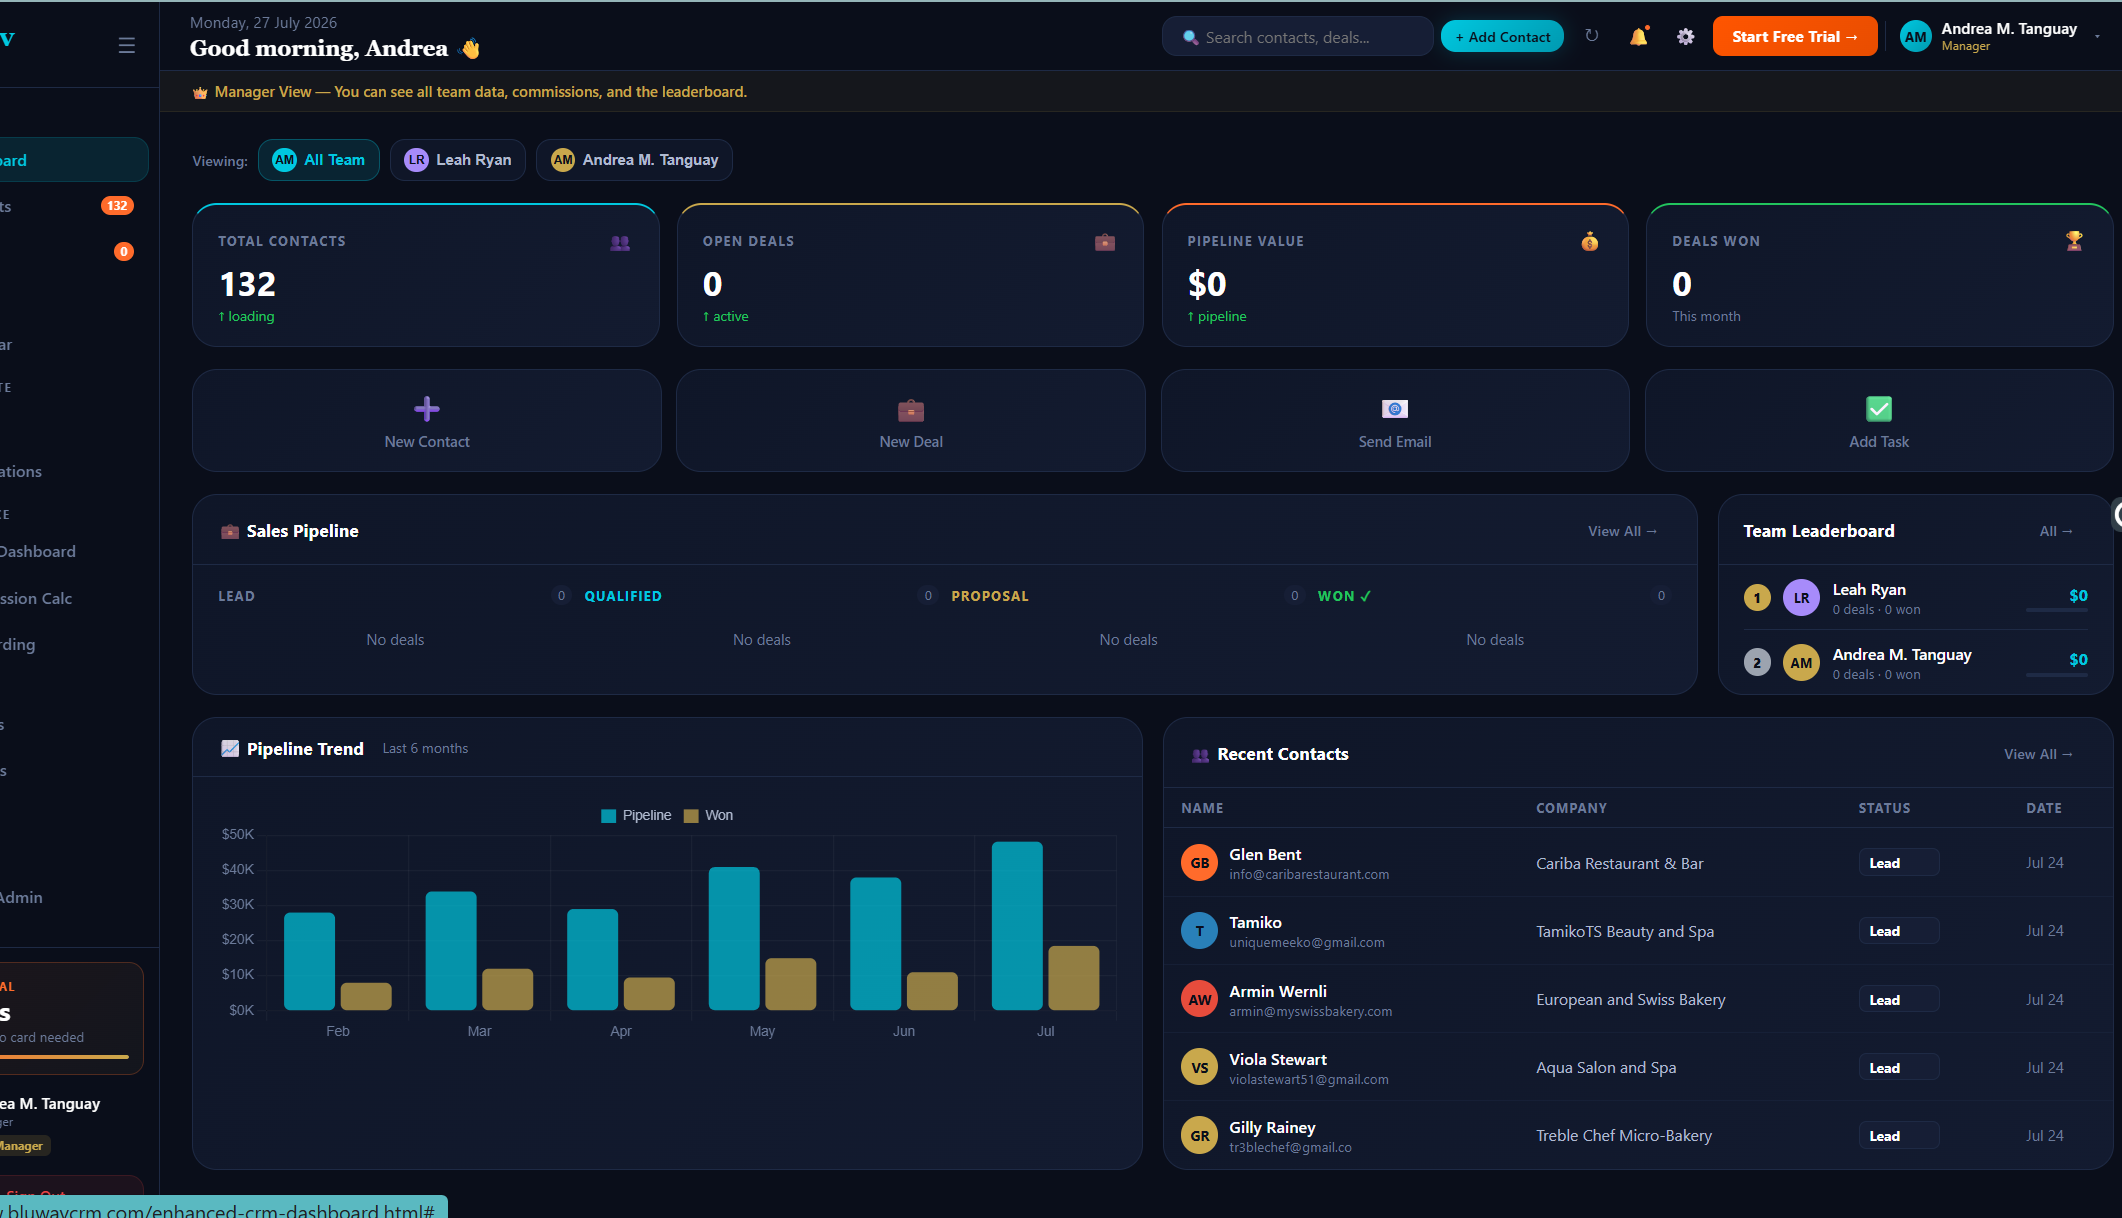
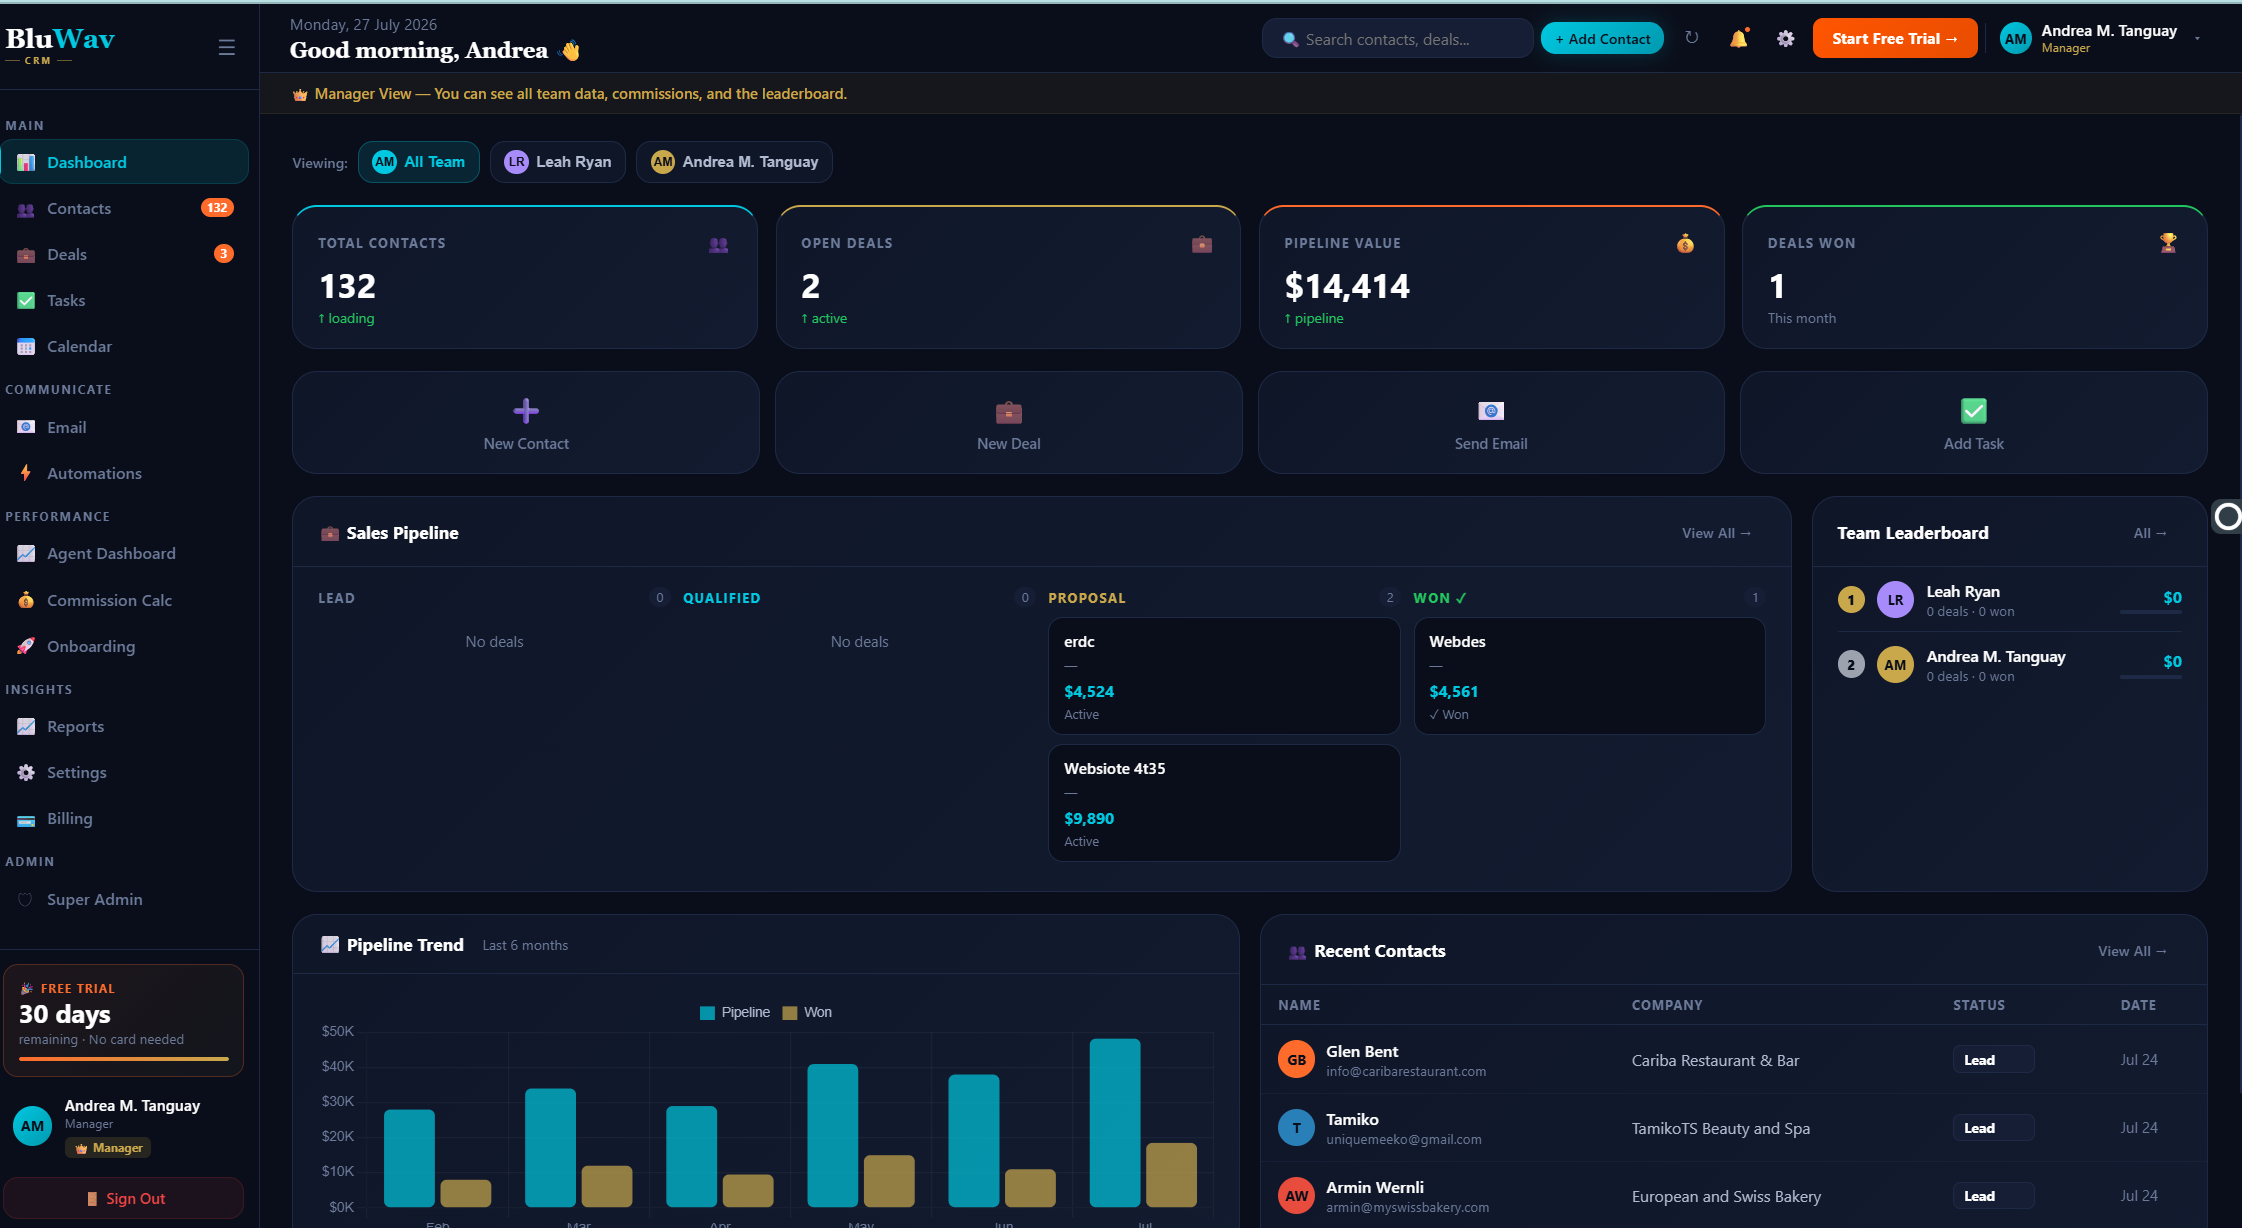
CRM section: replace dashboard background image, increase brightness for visibility

diff --git a/index.html b/index.html
@@ -2189,7 +2189,7 @@ footer .footer-grid{gap:56px !important;}
 <section style="background:#001020;padding:100px 0;position:relative;overflow:hidden;">
   <!-- Blurred CRM dashboard background image -->
   <div style="position:absolute;inset:0;z-index:0;pointer-events:none;">
-    <img src="crm-dashboard-bg.png" alt="" style="width:100%;height:100%;object-fit:cover;object-position:center top;display:block;filter:blur(8px) brightness(0.25) saturate(0.8);transform:scale(1.05);"/>
+    <img src="crm-dashboard-bg.png" alt="" style="width:100%;height:100%;object-fit:cover;object-position:center top;display:block;filter:blur(6px) brightness(0.35) saturate(0.7);transform:scale(1.05);"/>
   </div>
   <!-- Dark overlay for readability -->
   <div style="position:absolute;inset:0;z-index:1;background:linear-gradient(135deg,rgba(0,8,20,0.85) 0%,rgba(0,20,45,0.75) 50%,rgba(0,8,20,0.85) 100%);pointer-events:none;"></div>
